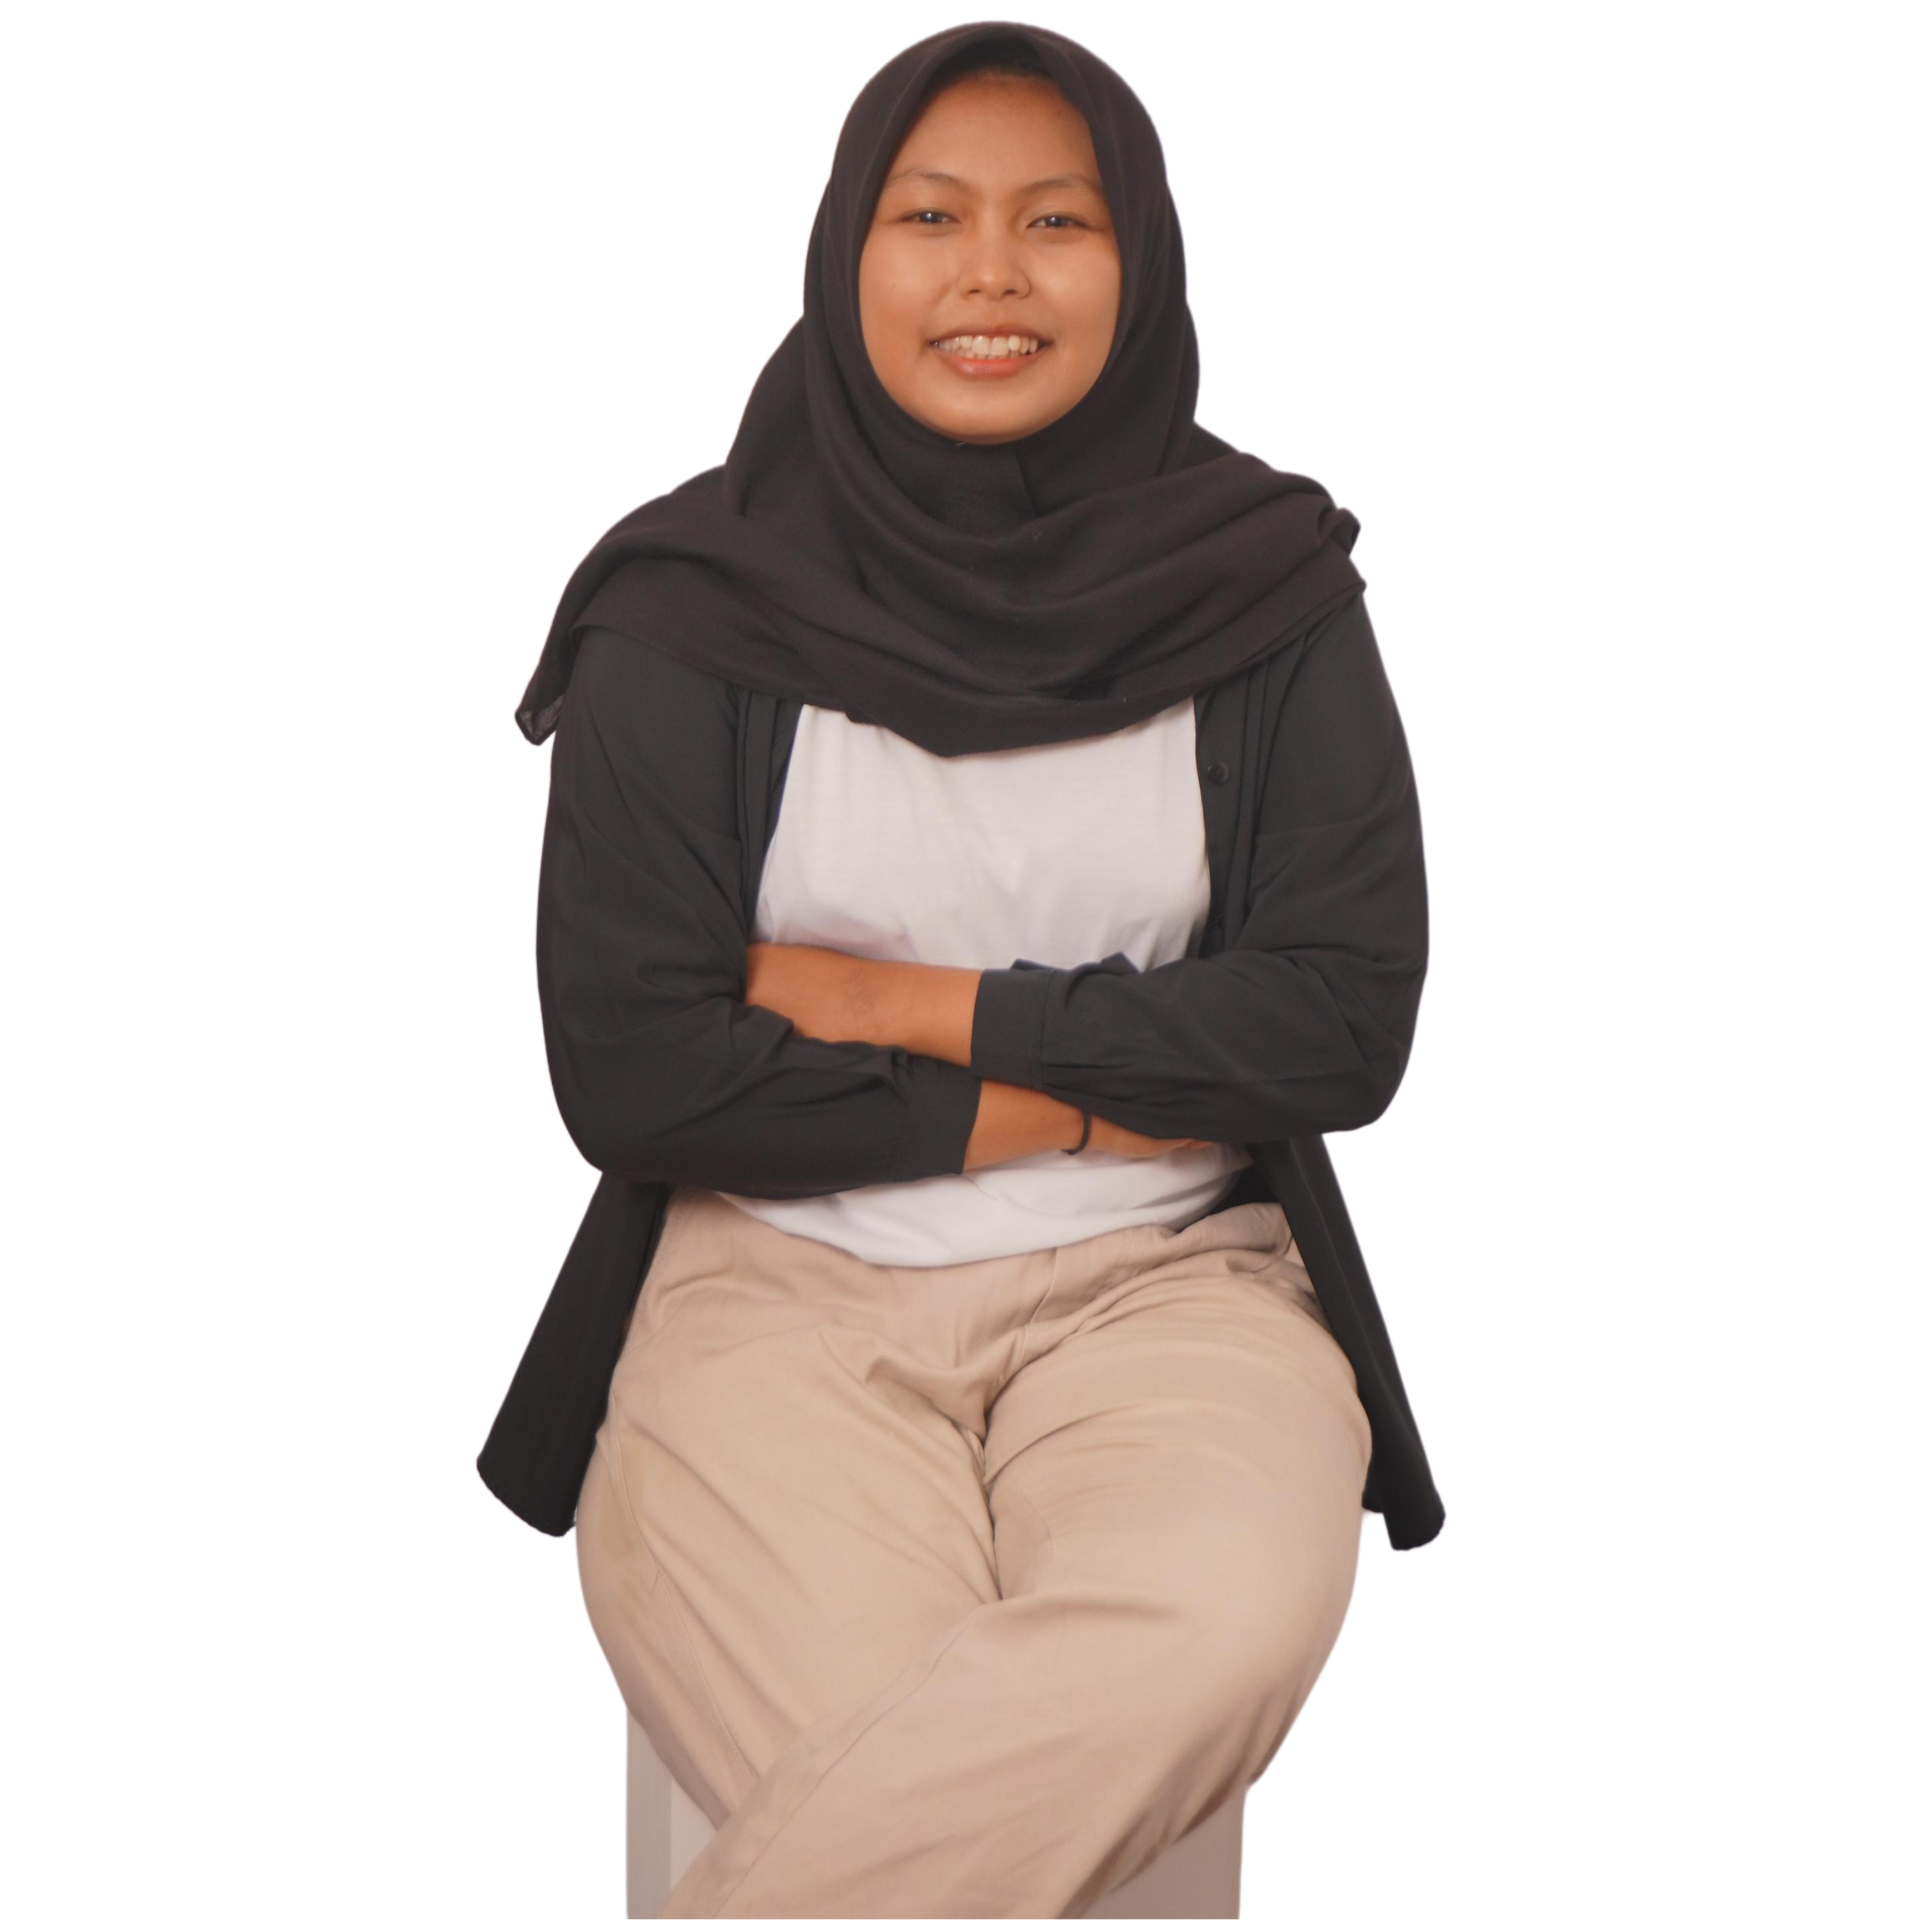
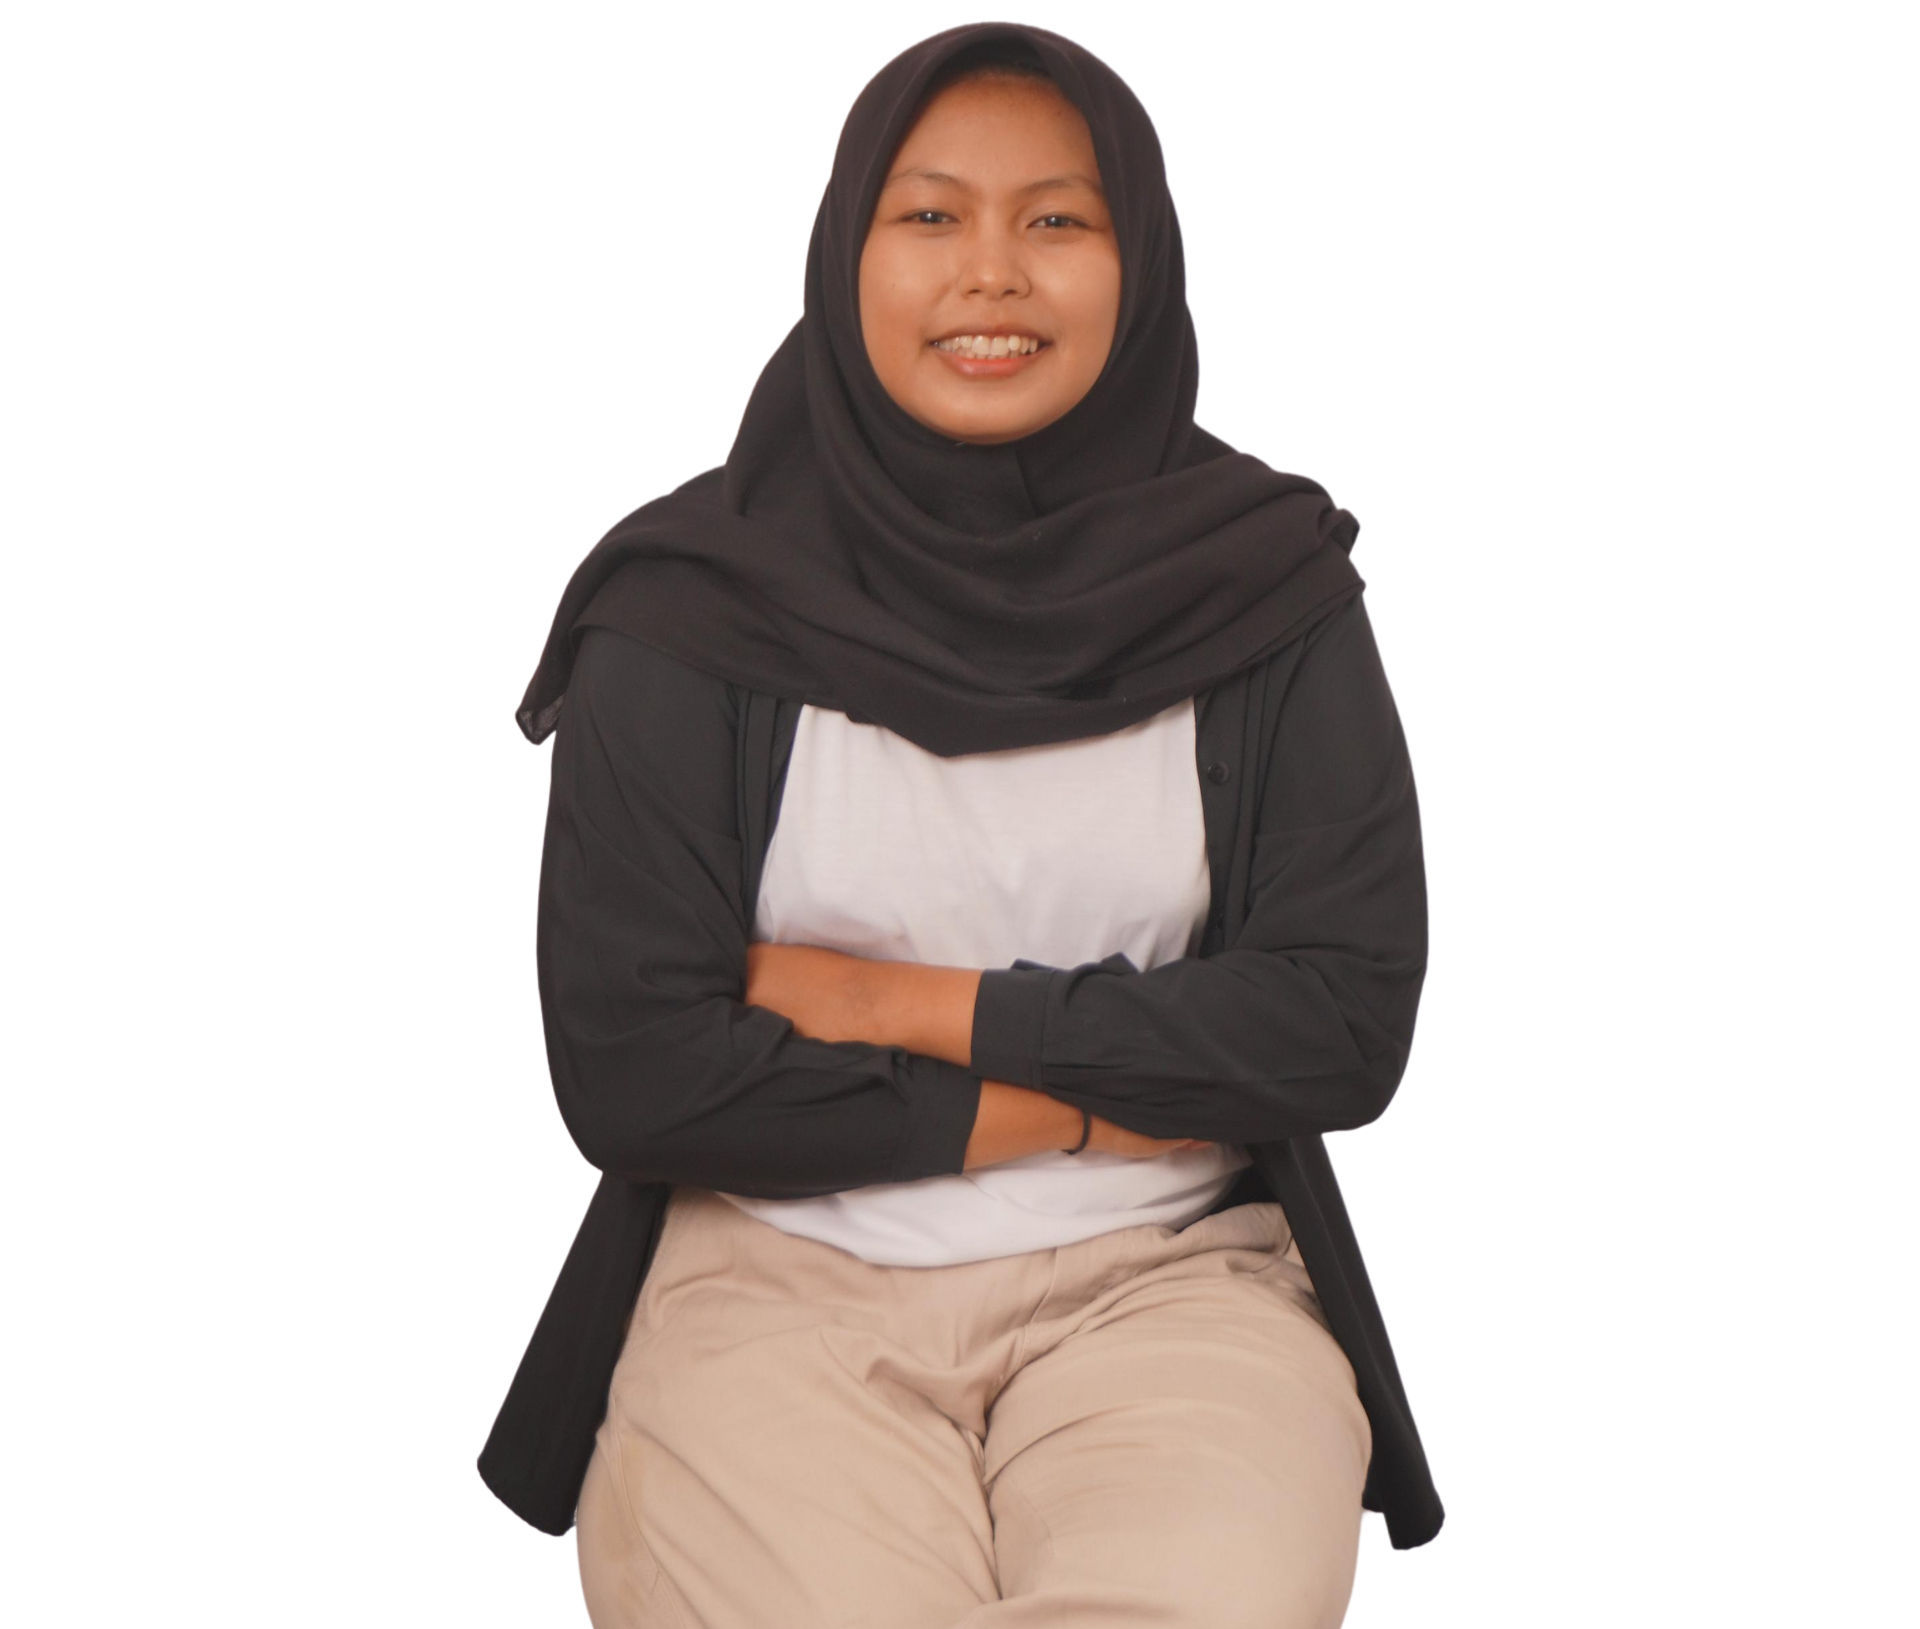
`Refactor code and update assets`

Changed region(s): [[0.25, 0.2149, 0.75, 1.0], [0.25, 0.0, 0.625, 0.5218]]

diff --git a/app/components/AboutSection.jsx b/app/components/AboutSection.jsx
@@ -3,15 +3,59 @@ import React, { useState, useTransition } from 'react';
 import Image from 'next/image';
 import TabButton from './TabButton';
 import { motion } from 'framer-motion';
+import { faHtml5, faCss3Alt, faJs, faReact, faBootstrap, faFigma, faPython, faKaggle  } from '@fortawesome/free-brands-svg-icons';
+import { FontAwesomeIcon } from '@fortawesome/react-fontawesome';
 
 const TAB_DATA = [
     {
         id: 'skills',
         title: 'Skills',
         content: (
-            <ul className='list-disc pl-2'>
-                <li>ReactJS</li>
-                <li>CSS</li>
+            <ul className='flex flex-wrap justify-center md:justify-start gap-5 w-full text-white'>
+                <li className='flex flex-col justify-center items-center gap-1'>
+                    <FontAwesomeIcon icon={faHtml5} className='text-5xl' />
+                    <span className='text-sm'>HTML</span>
+                </li>
+                <li className='flex flex-col justify-center items-center gap-1'>
+                    <FontAwesomeIcon icon={faCss3Alt} className='text-5xl' />
+                    <span className='text-sm'>CSS</span>
+                </li>
+                <li className='flex flex-col justify-center items-center gap-1'>
+                    <FontAwesomeIcon icon={faFigma} className='text-5xl' />
+                    <span className='text-sm'>Figma</span>
+                </li>
+                <li className='flex flex-col justify-center items-center gap-1'>
+                    <FontAwesomeIcon icon={faKaggle} className='text-5xl' />
+                    <span className='text-sm'>Kaggle</span>
+                </li>
+                <li className='flex flex-col justify-center items-center gap-1'>
+                    <FontAwesomeIcon icon={faJs} className='text-5xl' />
+                    <span className='text-xs'>Javascript</span>
+                </li>
+                <li className='flex flex-col justify-center items-center gap-1'>
+                    <FontAwesomeIcon icon={faReact} className='text-5xl' />
+                    <span className='text-sm'>ReactJS</span>
+                </li>
+                <li className='flex flex-col justify-center items-center gap-1'>
+                    <FontAwesomeIcon icon={faBootstrap} className='text-5xl' />
+                    <span className='text-sm'>Bootstrap</span>
+                </li>
+                <li className='flex flex-col justify-center items-center gap-1'>
+                    <FontAwesomeIcon icon={faPython} className='text-5xl' />
+                    <span className='text-sm'>Python</span>
+                </li>
+                <li className='flex flex-col justify-center items-center gap-1'>
+                    <Image alt={'img'} src={'/images/tailwind-120.png'} width={50} height={50}/>
+                    <span className='text-sm'>Tailwind</span>
+                </li>
+                <li className='flex flex-col justify-center items-center gap-1'>
+                    <Image alt={'img'} src={'/images/vite-120.png'} width={50} height={50}/>
+                    <span className='text-sm'>Vite</span>
+                </li>
+                <li className='flex flex-col justify-center items-center gap-1'>
+                    <Image alt={'img'} src={'/images/nextjs-120.png'} width={50} height={50}/>
+                    <span className='text-sm'>NextJS</span>
+                </li>
             </ul>
         )
     },
@@ -19,18 +63,32 @@ const TAB_DATA = [
       id: 'education',
       title: 'Education',
       content: (
-        <ul className='list-disc pl-2'>
-            <li>ReactJs for Frontend developer</li>
-            <li>Computer Science at Universitas Negeri Semarang</li>
-        </ul>
+        <div className='flex flex-col md:flex-row gap-3 items-center'>
+            <Image src={'/images/unnes.png'} width={50} height={50}/>
+            <p className='text-white text-center md:text-left'>(Unofficial) Bachelor's of Computer Science at Universitas Negeri Semarang</p>
+        </div>
       )  
     },
     {
         id: 'experience',
         title: 'Experience',
         content: (
-            <ul className='list-disc pl-2'>
-                <li>Intership Steradian</li>
+            <ul className='list-disc flex flex-col gap-5'>
+                <li className='flex flex-col md:flex-row gap-3 items-center'>
+                    <Image alt={'img'} src={'/images/steradian.png'} width={50} height={50}/>
+                    <p className='text-white text-center md:text-left'>Information Technology Intern - PT.Steradian Data Optima (Feb - Jul 2024)</p>
+                </li>
+                <li className='flex flex-col md:flex-row gap-3 items-center'>
+                    <Image alt={'img'} src={'/images/hacktiv8.png'} width={50} height={50}/>
+                    <p className='text-white text-center md:text-left'>Student - Study Independent Kampus Merdeka at Hacktiv8 (Sep - Des 2024)</p>
+                </li>
+                <li className='flex flex-col md:flex-row gap-3 items-center'>
+                    <Image alt={'img'} src={'/images/hima-ilkom.png'} width={50} height={50}/>
+                    <div className="flex flex-col justify-start gap-2">
+                        <p className='text-white text-center md:text-left'>Vice Chairman - Hima Ilmu Komputer UNNES (Jan - Des 2023)</p>
+                        <p className='text-white text-center md:text-left'>Expert Staff Internal Division - Hima Ilmu Komputer UNNES (Jan - Des 2022)</p>
+                    </div>
+                </li>
             </ul>
         )
     }
@@ -56,7 +114,7 @@ const AboutSection = () => {
         viewport={{ once: true }}
     >
       <div className='md:grid md:grid-cols-2 gap-8 items-center py-8 px-4 xl:gap-16 sm:py-16 xl:px-16'>
-        <Image alt='about me' src={'/images/about.JPG'} height={500} width={500}/>
+        <Image alt={'img'} id='about me' src={'/images/about.jpg'} height={500} width={500}/>
         <div className='mt-4 md:mt-0 text-left flex flex-col h-full'>
             <h2 className='text-4xl text-white font-bold mb-4'>About Me</h2>
             <p className='text-base lg:text-lg text-justify'>

diff --git a/app/components/ContactSection.jsx b/app/components/ContactSection.jsx
@@ -46,13 +46,13 @@ const ContactSection = () => {
     >
       <div className="text-white flex flex-col justify-center md:grid md:grid-cols-2 gap-8 items-center py-8 px-4 xl:gap-16 sm:py-16 xl:px-16">
         {/* photo */}
-        <div className="rounded-full bg-[#181818] w-[250px] h-[250px] lg:w-[400px] lg:h-[400px] relative">
+        <div className="rounded-full bg-[#1E1E2F] w-[250px] h-[250px] lg:w-[400px] lg:h-[400px] relative">
           <Image
-            src={"/images/profile.png"}
+            src={"/images/contact.png"}
             alt="profile"
-            className="absolute transform -translate-x-1/2 -translate-y-1/2 top-1/2 left-1/2"
-            width={350}
-            height={350}
+            className="absolute transform -translate-x-1/2 -translate-y-[42%] top-1/2 left-1/2 rounded-b-full"
+            width={400}
+            height={400}
           />
         </div>
 
@@ -63,19 +63,19 @@ const ContactSection = () => {
             Interested in working together or collaborating on a project? <br/>
             Let’s connect! I'm always open to new opportunities and discussions
           </p>
-          <div className="flex flex-wrap justify-center gap-4 mt-4 md:gap-8">
+          <div className="flex flex-wrap justify-start gap-4 mt-4 md:gap-8">
             {contactData.map((contact, index) => (
               <Link
                 key={index}
                 href={contact.path}
                 target="_blank"
                 rel="noopener noreferrer"
-                className="flex flex-col items-center w-20"
+                className="flex flex-col items-center w-12 md:w-20"
               >
-                <div className="w-16 h-16 flex items-center justify-center bg-gradient-to-r from-secondary-500 to-primary-500 rounded-xl transition">
+                <div className="size-8 md:w-14 md:h-14 flex items-center justify-center bg-gradient-to-r from-secondary-500 to-primary-500 rounded-xl transition">
                   <FontAwesomeIcon
                     icon={contact.icon}
-                    className="text-2xl lg:text-7xl text-white"
+                    className="text-4xl lg:text-7xl text-white md:text-gray-600 md:hover:text-white"
                   />
                 </div>
                 <span className="mt-2 text-sm text-white text-center">

diff --git a/app/components/HeroSection.jsx b/app/components/HeroSection.jsx
@@ -39,12 +39,12 @@ function HeroSection() {
             I build clean and user-friendly frontend experiences crafted with code and custom-designed interfaces.
           </p>
           <div>
-            <button className="px-6 py-3 w-full sm:w-fit rounded-full bg-gradient-to-br from-blue-500 via-primary-500 to-secondary-500 text-white hover:bg-slate-200 mr-4">
-              Hire me
+            <button className="px-6 py-3 w-full sm:w-fit rounded-full bg-gradient-to-br from-primary-500 to-secondary-500 text-white hover:bg-slate-200 mr-4 hover:font-bold">
+              <a href="http://www.linkedin.com/in/suginiinjani/" target="_blank" rel="noopener noreferrer">Hire me</a>
             </button>
-            <button className="px-1 py-1 w-full sm:w-fit rounded-full bg-gradient-to-br from-blue-500 via-primary-500 to-secondary-500 hover:bg-slate-800 text-white mt-3">
+            <button className="px-1 py-1 w-full sm:w-fit rounded-full bg-gradient-to-br from-primary-500 to-secondary-500 hover:bg-slate-800 text-white mt-3">
               <span className="block bg-[#03071E] hover:bg-slate-800 rounded-full px-5 py-2">
-                Download CV
+                <a href="https://drive.google.com/file/d/1V-e2pyvuoc1I0UGEkQGge99swx_rVZD2/view?usp=sharing" target="_blank" rel="noopener noreferrer">Download CV</a>
               </span>
             </button>
           </div>
@@ -54,13 +54,13 @@ function HeroSection() {
           animate={{ opacity: 1, scale: 1 }} 
           transition={{ duration: 0.5 }}
           className="col-span-4 place-self-center mt-4 lg:mt-0">
-          <div className="rounded-full bg-[#181818] w-[250px] h-[250px] lg:w-[400px] lg:h-[400px] relative">
+          <div className="rounded-full bg-[#1E1E2F] w-[250px] h-[250px] lg:w-[400px] lg:h-[400px] relative">
             <Image
               src={"/images/profile.png"}
               alt="profile"
-              className="absolute transform -translate-x-1/2 -translate-y-1/2 top-1/2 left-1/2"
-              width={350}
-              height={350}
+              className="absolute transform -translate-x-1/2 -translate-y-[41%] top-1/2 left-1/2 rounded-b-full"
+              width={400}
+              height={400}
             />
           </div>
         </motion.div>

diff --git a/app/components/ProjectsSection.jsx b/app/components/ProjectsSection.jsx
@@ -34,7 +34,7 @@ const projectsData = [
     },
     {
         id: 4,
-        title: "Hactiv8 Capstone Mon Chérie E-Commerce",
+        title: "Hacktiv8 Capstone Mon Chérie Ecommerce",
         description: "A capstone project developed for the Studi Independen program at Hacktiv8, under the ReactJS Frontend Web Developer track. This e-commerce website features a modern user interface, showcasing product listings, user authentication and shopping cart functionality.",
         image: "/images/projects/cherie.png",
         tag: ['All', 'Web'],

diff --git a/app/components/Footer.jsx b/app/components/Footer.jsx
@@ -4,7 +4,7 @@ const Footer = () => {
   return (
     <footer className='footer border z-10 border-t-[#33353F] border-l-transparent border-r-transparent text-white'>
         <div className='container p-12 flex justify-between'>
-            <span>LOGO</span>
+            <span>Portfolio</span>
             <p className='text-slate-600'>All rights reserved.</p>
         </div>
     </footer>

diff --git a/app/layout.js b/app/layout.js
@@ -19,6 +19,9 @@ export const metadata = {
 export default function RootLayout({ children }) {
   return (
     <html lang="en">
+      <head>
+        <link rel="icon" href="/images/icon-g.png" type="image/png" />
+      </head>
       <body
         className={`${geistSans.variable} ${geistMono.variable} antialiased`}
       >

diff --git a/app/components/Navbar.jsx b/app/components/Navbar.jsx
@@ -37,7 +37,7 @@ function Navbar() {
         <Link 
             href={'/'} className='text-2xl text-white font-semibold'
         >
-            PORTFOLIO GG
+            Portfolio
         </Link>
         <div className="mobile-menu block md:hidden">
             {

diff --git a/tailwind.config.js b/tailwind.config.js
@@ -10,8 +10,8 @@ module.exports = {
   theme: {
     extend: {
       colors: {
-        primary: colors.purple,
-        secondary: colors.pink,
+        primary: colors.orange,
+        secondary: colors.fuchsia,
       }
     },
   },

diff --git a/app/page.js b/app/page.js
@@ -17,7 +17,7 @@ export default function Home() {
         <ProjectsSection />
         <ContactSection />
       </div>
-      <Footer />
+      {/* <Footer /> */}
     </main>
   );
 }
